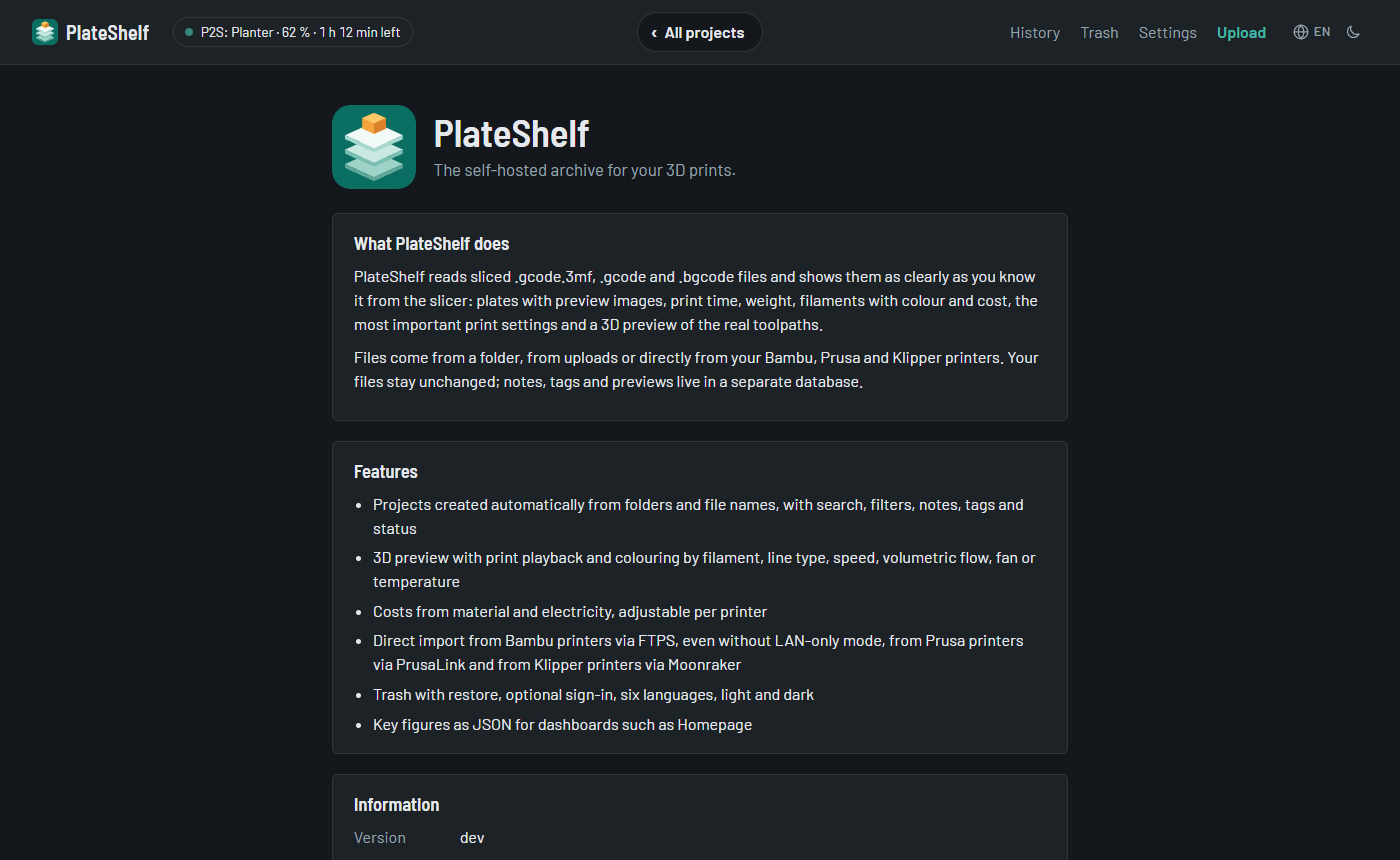
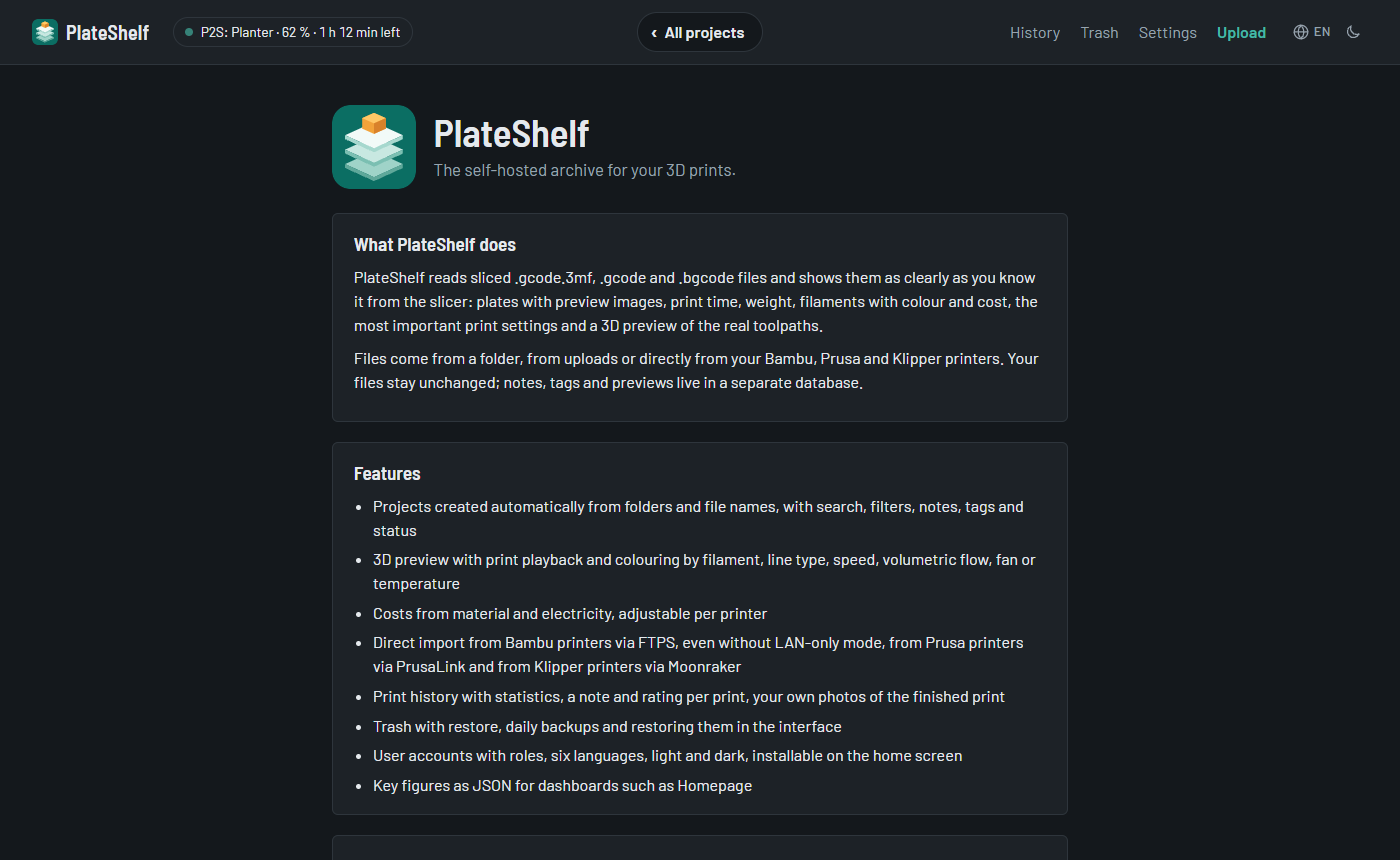
Einheitliche Optik: Radien, Seitenbreiten, Überschriften, Seitenleiste; Datum im Druckverlauf repariert

Changed region(s): [[0.2457, 0.5442, 0.7371, 0.9977], [0.2457, 0.2721, 0.7371, 0.4535]]

diff --git a/app/static/style.css b/app/static/style.css
@@ -28,6 +28,11 @@
   src: url("fonts/barlow-semi-condensed-latin-600.woff2") format("woff2"); unicode-range: U+0000-00FF, U+0131, U+0152-0153, U+02BB-02BC, U+02C6, U+02DA, U+02DC, U+0304, U+0308, U+0329, U+2000-206F, U+20AC, U+2122, U+2191, U+2193, U+2212, U+2215, U+FEFF, U+FFFD; }
 
 :root {
+  --radius: 6px;                                   /* Ecken von Kästen, Feldern und Knöpfen */
+  --page: 64rem;                                   /* Listen, Verlauf, Einstellungen */
+  --page-narrow: 46rem;                            /* Formulare, Konto, Über */
+  --h-panel: 600 1.2rem/1.2 var(--font-cond);      /* Überschrift eines Kastens */
+  --h-side: 600 1.05rem/1.2 var(--font-cond);      /* Überschrift in der Seitenleiste */
   --bg: #ECEEF0;
   --surface: #FFFFFF;
   --ink: #17212B;
@@ -138,8 +143,13 @@ th.r, td.r, .r { text-align: right; }
 }
 
 input, select, textarea, button, .button {
-  font: inherit; color: inherit; border-radius: 6px;
+  font: inherit; color: inherit; border-radius: var(--radius);
 }
+/* Dateiauswahl wie die übrigen Felder und Knöpfe statt im Stil des Browsers */
+input[type="file"] { padding: .35rem; color: var(--muted); font-size: .9rem; width: 100%; }
+input[type="file"]::file-selector-button { font: inherit; font-weight: 600; margin-right: .75rem; padding: .3rem .8rem;
+  border: 1px solid var(--line); border-radius: var(--radius); background: var(--surface); color: var(--ink); cursor: pointer; }
+input[type="file"]::file-selector-button:hover { border-color: var(--accent); }
 input, select, textarea {
   background: var(--bg); border: 1px solid var(--line); padding: .45rem .6rem; min-width: 0;
 }
@@ -172,9 +182,11 @@ main { padding: clamp(1rem, 3vw, 2rem); max-width: 1500px; margin: 0 auto; }
 .project-zip { font-size: .9rem; font-weight: 500; white-space: nowrap; }
 /* Eigene Fotos vom Druck */
 .bed img.is-photo { width: 100%; height: 100%; object-fit: cover; }
+.photos-own, .job-list, .usage { background: var(--surface); border: 1px solid var(--line); border-radius: var(--radius); padding: 1.1rem; }
 .photos-own { display: grid; gap: .6rem; }
+.job-list li:last-child, .usage li:last-child { border-bottom: 0; }
 #photos, #history { scroll-margin-top: 5rem; }  /* Sprungziele nicht unter der Titelleiste */
-.photos-own h2 { font: 600 1rem/1.2 var(--font-cond); margin: 0; }
+.photos-own h2 { font: var(--h-side); margin: 0; }
 .photos-own .saved, .photos-own .warn { margin: 0; }
 .photo-grid { list-style: none; margin: 0; padding: 0; display: grid; grid-template-columns: repeat(auto-fill, minmax(7rem, 1fr)); gap: .6rem; }
 .photo-grid li { position: relative; display: grid; gap: .3rem; }
@@ -184,7 +196,8 @@ main { padding: clamp(1rem, 3vw, 2rem); max-width: 1500px; margin: 0 auto; }
 .photo-actions { display: flex; flex-wrap: wrap; gap: .1rem .6rem; font-size: .8rem; }
 .photo-actions form { margin: 0; }
 .photo-actions button { padding: 0; font-size: .8rem; }
-.photo-upload { display: grid; gap: .4rem; }
+.photo-upload { display: grid; gap: .5rem; }
+.photo-upload button { justify-self: start; }
 .photo-upload label { display: grid; gap: .25rem; font-size: .9rem; font-weight: 500; }
 .photo-upload input[type="file"] { max-width: 100%; }
 .photo-upload .hint { margin: 0; }
@@ -193,6 +206,7 @@ main { padding: clamp(1rem, 3vw, 2rem); max-width: 1500px; margin: 0 auto; }
 .job-note-view { overflow-wrap: anywhere; }
 .job-note { color: var(--ink); }
 .job-rating { font-size: .95rem; }
+.job-note-edit { border: 0; padding: 0; }
 .job-note-edit > summary { cursor: pointer; font-size: .8rem; color: var(--accent); list-style: none; display: inline-block; }
 .job-note-edit > summary::-webkit-details-marker { display: none; }
 .job-note-form { display: grid; gap: .5rem; margin-top: .4rem; max-width: 26rem; }
@@ -202,9 +216,9 @@ main { padding: clamp(1rem, 3vw, 2rem); max-width: 1500px; margin: 0 auto; }
 .rating-choice { border: 0; margin: 0; padding: 0; display: flex; flex-wrap: wrap; gap: .25rem 1rem; }
 .rating-choice legend { font-size: .85rem; font-weight: 500; padding: 0; margin-bottom: .25rem; }
 .rating-choice label { display: flex; align-items: center; gap: .3rem; font-weight: 400; }
-.job-note-line { flex-basis: 100%; font-size: .85rem; }
+.job-note-line { grid-column: 1 / -1; font-size: .85rem; }
 .job-note-cell { min-width: 10rem; font-size: .88rem; }
-.card { background: var(--surface); border: 1px solid var(--line); border-radius: 4px; overflow: hidden; position: relative; }
+.card { background: var(--surface); border: 1px solid var(--line); border-radius: var(--radius); overflow: hidden; position: relative; }
 /* Auswahl für mehrere Projekte: erscheint beim Überfahren, auf Touch-Geräten und sobald etwas gewählt ist */
 .card-select { position: absolute; top: .45rem; right: .45rem; z-index: 2; display: grid; place-items: center;
   width: 1.9rem; height: 1.9rem; border-radius: 4px; background: rgb(0 0 0 / .55); cursor: pointer; opacity: 0;
@@ -267,7 +281,7 @@ main { padding: clamp(1rem, 3vw, 2rem); max-width: 1500px; margin: 0 auto; }
 .plates-col, .side, .plate-info, .file-head > div { min-width: 0; }
 .project { overflow-wrap: anywhere; }
 
-.file { background: var(--surface); border: 1px solid var(--line); border-radius: 4px; margin-bottom: 1.5rem; }
+.file { background: var(--surface); border: 1px solid var(--line); border-radius: var(--radius); margin-bottom: 1.5rem; }
 .file-head { display: flex; flex-wrap: wrap; justify-content: space-between; gap: 1rem; padding: 1rem 1.25rem; border-bottom: 1px solid var(--line); }
 .file-name { font: 600 1.05rem/1.3 var(--font); margin: 0; overflow-wrap: anywhere; }
 .file-sub { margin: .15rem 0 0; color: var(--muted); font-size: .9rem; }
@@ -302,13 +316,13 @@ summary { cursor: pointer; font-weight: 500; }
 
 .side { position: sticky; top: 5rem; display: grid; gap: 1.5rem; }
 @media (max-width: 960px) { .side { position: static; } }
-.edit { display: grid; gap: .8rem; background: var(--surface); border: 1px solid var(--line); border-radius: 4px; padding: 1.1rem; }
+.edit { display: grid; gap: .8rem; background: var(--surface); border: 1px solid var(--line); border-radius: var(--radius); padding: 1.1rem; }
 .edit label { display: grid; gap: .25rem; font-weight: 500; font-size: .92rem; }
 .hint { font-weight: 400; color: var(--muted); font-size: .8rem; }
 .edit button { justify-self: start; }
 .saved { margin: 0; color: var(--accent); font-weight: 500; }
 .source { font-size: .9rem; margin-top: -.4rem; }
-.usage h2 { font: 600 1rem/1.2 var(--font-cond); margin: 0 0 .5rem; }
+.usage h2 { font: var(--h-side); margin: 0 0 .5rem; }
 .usage ul { list-style: none; padding: 0; margin: 0; }
 .usage li { display: flex; align-items: center; padding: .3rem 0; border-bottom: 1px solid var(--line); }
 .usage li .r { margin-left: auto; }
@@ -319,7 +333,7 @@ summary { cursor: pointer; font-weight: 500; }
 .extra-list .bed { border-radius: 6px; overflow: hidden; }
 .extra-list span { display: block; font-size: .85rem; color: var(--muted); margin-top: .3rem; }
 .origin { margin: .35rem 0 0; color: var(--muted); font-size: 1.05rem; }
-.designer { background: var(--surface); border: 1px solid var(--line); border-radius: 4px; overflow: hidden; }
+.designer { background: var(--surface); border: 1px solid var(--line); border-radius: var(--radius); overflow: hidden; }
 .photos { display: grid; gap: 2px; grid-template-columns: repeat(auto-fit, minmax(120px, 1fr)); }
 .photos img { width: 100%; aspect-ratio: 4 / 3; object-fit: cover; }
 .designer dl { display: grid; gap: .5rem; margin: 0; padding: .9rem 1.1rem 0; }
@@ -362,7 +376,7 @@ summary { cursor: pointer; font-weight: 500; }
 .upload-link { font-weight: 600; text-decoration: none; white-space: nowrap; }
 .settings-link { color: var(--muted); text-decoration: none; white-space: nowrap; }
 .settings-link:hover { color: var(--ink); }
-.upload { max-width: 44rem; margin-inline: auto; }
+.upload { max-width: var(--page-narrow); margin-inline: auto; }
 .upload h1 { font: 600 2rem/1.1 var(--font-cond); margin: .25rem 0 1.25rem; }
 .upload-form { display: grid; gap: 1.25rem; }
 .dropzone {
@@ -382,7 +396,7 @@ summary { cursor: pointer; font-weight: 500; }
 .folder { display: grid; gap: .3rem; font-weight: 500; }
 .upload-actions { display: flex; flex-wrap: wrap; align-items: center; gap: .75rem; }
 .upload-actions progress { flex: 1 1 12rem; height: .6rem; accent-color: var(--accent); }
-.notice { background: var(--surface); border: 1px solid var(--line); border-radius: 4px; padding: .9rem 1.1rem; margin-bottom: 1.25rem; }
+.notice { background: var(--surface); border: 1px solid var(--line); border-radius: var(--radius); padding: .9rem 1.1rem; margin-bottom: 1.25rem; }
 .notice p { margin: 0 0 .4rem; }
 .notice ul { margin: .25rem 0 0; padding-left: 1.2rem; }
 .notice-warn { border-color: var(--warn); }
@@ -451,9 +465,9 @@ button.danger-quiet:hover { color: var(--ink); }
 .flash-warn { border-left-color: var(--warn); }
 
 /* Plattenleiste des Projekts */
-.project-strip { background: var(--surface); border: 1px solid var(--line); border-radius: 4px; margin-bottom: 1.5rem; padding-top: .9rem; }
+.project-strip { background: var(--surface); border: 1px solid var(--line); border-radius: var(--radius); margin-bottom: 1.5rem; padding-top: .9rem; }
 .strip-head { display: flex; flex-wrap: wrap; align-items: center; justify-content: space-between; gap: .5rem; padding: 0 1.25rem .5rem; }
-.strip-head h2 { font: 600 1.05rem/1.2 var(--font-cond); margin: 0; }
+.strip-head h2 { font: var(--h-side); margin: 0; }
 .seg-small button { padding: .25rem .7rem; font-size: .85rem; }
 .plate-strip a[aria-current=true] .strip-title { color: var(--accent); }
 .plate-strip .is-sliced .bed { outline-color: var(--line); }
@@ -479,7 +493,7 @@ button.danger-quiet:hover { color: var(--ink); }
 .cost-line a { margin-left: .35rem; }
 
 /* Einstellungen: Bereiche links, Inhalt rechts */
-.settings-page { max-width: 64rem; margin-inline: auto; }
+.settings-page { max-width: var(--page); margin-inline: auto; }
 .settings-page h1 { font: 600 2rem/1.1 var(--font-cond); margin: .25rem 0 1.25rem; }
 .settings-layout { display: grid; grid-template-columns: 12rem minmax(0, 1fr); gap: 2rem; align-items: start; }
 .settings-nav { position: sticky; top: 5rem; display: grid; gap: .15rem; }
@@ -492,7 +506,7 @@ button.danger-quiet:hover { color: var(--ink); }
 .settings-body { display: grid; gap: 1.5rem; }
 .settings-section { background: var(--surface); border: 1px solid var(--line); border-radius: 6px; padding: 1.4rem 1.5rem;
   display: grid; gap: 1rem; scroll-margin-top: 5rem; }
-.settings-section h2 { font: 600 1.35rem/1.2 var(--font-cond); margin: 0; }
+.settings-section h2 { font: var(--h-panel); margin: 0; }
 .settings-section h3 { font: 600 1.05rem/1.2 var(--font-cond); margin: .5rem 0 0; }
 .settings-section > .hint, .settings-section form > .hint { margin: 0; max-width: 46rem; }
 .settings-section .flash { margin: 0; }
@@ -598,13 +612,13 @@ button.danger-quiet:hover { color: var(--ink); }
 .lang-menu .menu button:first-child { border-bottom: 1px solid var(--line); border-radius: 4px 4px 0 0; margin-bottom: .2rem; }
 
 /* Über PlateShelf */
-.about-page { max-width: 46rem; margin: 0 auto; }
+.about-page { max-width: var(--page-narrow); margin: 0 auto; }
 .about-head { display: flex; align-items: center; gap: 1.1rem; margin: .5rem 0 1.5rem; }
 .about-head img { width: 84px; height: 84px; border-radius: 18px; flex-shrink: 0; }
 .about-head h1 { font: 600 2.4rem/1 var(--font-cond); margin: 0; }
 .about-head .tagline { margin: .35rem 0 0; color: var(--muted); font-size: 1.05rem; }
 .about-page section { background: var(--surface); border: 1px solid var(--line); border-radius: 6px; padding: 1.1rem 1.3rem; margin-bottom: 1.25rem; }
-.about-page h2 { font: 600 1.15rem/1.2 var(--font-cond); margin: 0 0 .6rem; }
+.about-page h2 { font: var(--h-panel); margin: 0 0 .6rem; }
 .about-page p { margin: 0 0 .6rem; }
 .about-page ul { margin: 0; padding-left: 1.2rem; display: grid; gap: .35rem; }
 .about-facts { display: grid; grid-template-columns: max-content 1fr; gap: .35rem 1.2rem; margin: 0; }
@@ -624,11 +638,11 @@ button.danger-quiet:hover { color: var(--ink); }
 a.icon-btn { text-decoration: none; }
 
 /* Eigenes Konto, Geräte und Tokens */
-.account-page { max-width: 44rem; margin-inline: auto; display: grid; gap: 1.25rem; }
+.account-page { max-width: var(--page-narrow); margin-inline: auto; display: grid; gap: 1.25rem; }
 .account-page h1 { font: 600 2rem/1.1 var(--font-cond); margin: .25rem 0 0; }
 .account-page > .hint { margin: 0; font-size: .95rem; }
 .account-page > .flash { margin: 0; }
-.account-form { max-width: 26rem; }
+.account-form label { max-width: 26rem; }
 .device-list { list-style: none; margin: 0; padding: 0; border: 1px solid var(--line); border-radius: 6px; }
 .device-list > li { display: flex; flex-wrap: wrap; align-items: center; justify-content: space-between;
   gap: .5rem 1rem; padding: .7rem .9rem; }
@@ -674,7 +688,7 @@ a.icon-btn { text-decoration: none; }
 .stat-tiles dd.stat-sub { font: 400 .8rem/1.3 var(--font); color: var(--muted); }
 .chart-card { background: var(--surface); border: 1px solid var(--line); border-radius: 6px; padding: 1rem 1.25rem;
   margin: 0 0 1.25rem; min-width: 0; }
-.chart-card h2 { font: 600 1.1rem/1.2 var(--font-cond); margin: 0 0 .6rem; }
+.chart-card h2 { font: var(--h-panel); margin: 0 0 .6rem; }
 .chart-row { display: grid; grid-template-columns: repeat(auto-fit, minmax(20rem, 1fr)); gap: 0 1.25rem; }
 .chart-legend { list-style: none; display: flex; flex-wrap: wrap; gap: .3rem 1rem; margin: 0 0 .6rem; padding: 0;
   font-size: .82rem; color: var(--muted); }
@@ -710,7 +724,7 @@ a.icon-btn { text-decoration: none; }
 .rate-table td:last-child { width: 40%; }
 
 /* Druckverlauf */
-.history-page { max-width: 60rem; margin-inline: auto; }
+.history-page { max-width: var(--page); margin-inline: auto; }
 .history-page h1 { font: 600 2rem/1.1 var(--font-cond); margin: .25rem 0 1rem; }
 .history-page > .hint { margin: 0 0 1.25rem; font-size: .9rem; }
 .table-scroll { overflow-x: auto; max-width: 100%; position: relative; }
@@ -729,7 +743,7 @@ a.icon-btn { text-decoration: none; }
 .job-running { color: var(--ink); }
 .job-cancelled { color: var(--muted); }
 .job-failed { color: var(--warn); }
-.job-list h2 { font: 600 1rem/1.2 var(--font-cond); margin: 0 0 .5rem; }
+.job-list h2 { font: var(--h-side); margin: 0 0 .5rem; }
 .job-list ul { list-style: none; padding: 0; margin: 0; }
 .job-list li { display: grid; grid-template-columns: auto 1fr; gap: 0 .6rem; padding: .35rem 0; border-bottom: 1px solid var(--line); }
 .job-list .job-when { text-align: right; font-size: .85rem; }
@@ -762,13 +776,13 @@ a.icon-btn { text-decoration: none; }
 .bed-live { position: absolute; left: .5rem; top: .5rem; background: var(--accent); color: var(--accent-ink);
   font-size: .75rem; font-weight: 600; padding: .15rem .5rem; border-radius: 3px; }
 
-.trash-page { max-width: 52rem; margin-inline: auto; }
+.trash-page { max-width: var(--page); margin-inline: auto; }
 .trash-head { display: flex; flex-wrap: wrap; align-items: baseline; justify-content: space-between; gap: .25rem 1.5rem; }
 .trash-head h1 { font: 600 2rem/1.1 var(--font-cond); margin: .25rem 0 1rem; }
 .trash-head form { margin: 0; }
 .trash-page > .hint { margin: 0 0 1.25rem; font-size: .9rem; }
 .trash-list { list-style: none; margin: 0; padding: 0; display: grid; gap: .75rem; }
-.trash-item { background: var(--surface); border: 1px solid var(--line); border-radius: 4px; padding: .9rem 1.1rem;
+.trash-item { background: var(--surface); border: 1px solid var(--line); border-radius: var(--radius); padding: .9rem 1.1rem;
   display: flex; flex-wrap: wrap; align-items: center; justify-content: space-between; gap: .75rem 1.5rem; }
 .trash-info { min-width: 0; flex: 1 1 20rem; }
 .trash-info h2 { font: 600 1.1rem/1.25 var(--font-cond); margin: 0; overflow-wrap: anywhere; }

diff --git a/app/templates/about.html b/app/templates/about.html
@@ -25,7 +25,9 @@
       <li>{{ _('3D-Vorschau mit Wiedergabe des Drucks und Einfärbung nach Filament, Linientyp, Geschwindigkeit, Volumenstrom, Lüfter oder Temperatur') }}</li>
       <li>{{ _('Kosten aus Material und Strom, pro Drucker einstellbar') }}</li>
       <li>{{ _('Direktimport von Bambu-Druckern per FTPS, auch ohne LAN-only-Modus, von Prusa-Druckern über PrusaLink und von Klipper-Druckern über Moonraker') }}</li>
-      <li>{{ _('Papierkorb mit Wiederherstellen, optionale Anmeldung, sechs Sprachen, hell und dunkel') }}</li>
+      <li>{{ _('Druckverlauf mit Statistik, Notiz und Bewertung pro Druck, eigene Fotos vom fertigen Druck') }}</li>
+      <li>{{ _('Papierkorb mit Wiederherstellen, tägliche Sicherungen und Zurückspielen in der Oberfläche') }}</li>
+      <li>{{ _('Benutzerkonten mit Rollen, sechs Sprachen, hell und dunkel, als App auf dem Homescreen') }}</li>
       <li>{{ _('Kennzahlen als JSON für Dashboards wie Homepage') }}</li>
     </ul>
   </section>

diff --git a/app/templates/history.html b/app/templates/history.html
@@ -17,7 +17,7 @@
   </p>
   {% if not enabled %}
   <p class="flash flash-warn" role="status">{{ _('Der Druckverlauf ist ausgeschaltet. Einschalten lässt er sich unter „Einstellungen“.') }}</p>
-  {% elif not printers %}
+  {% elif not printers and not jobs %}
   <p class="flash" role="status">{{ _('Richte unter „Einstellungen“ einen Drucker für den Direktimport ein, dann erscheinen hier seine Drucke.') }}</p>
   {% endif %}
 

diff --git a/CHANGELOG.md b/CHANGELOG.md
@@ -2,6 +2,18 @@
 
 Entries up to version 0.6.0 (when the project was still called Druckarchiv) are in German.
 
+## Unreleased
+
+- **One look across all pages:** the same corner radius, page widths and heading sizes
+  everywhere; the sidebar of the project page now shows photos, print history and filament
+  in the same boxes as the project details; file pickers match the other buttons.
+- Fixed: on the project page, a print with a note squeezed the date of the print into a
+  narrow column (one character per line).
+- Fixed: “Note” in the print history was indented and had a stray line.
+- The notice to set up a printer no longer appears in the history when prints are listed.
+- The About page lists the current features (accounts, backups, photos, notes per print).
+- Screenshots updated.
+
 ## 0.8.4
 
 - **Photos of the print:** add your own photos on the project page, for example straight from
